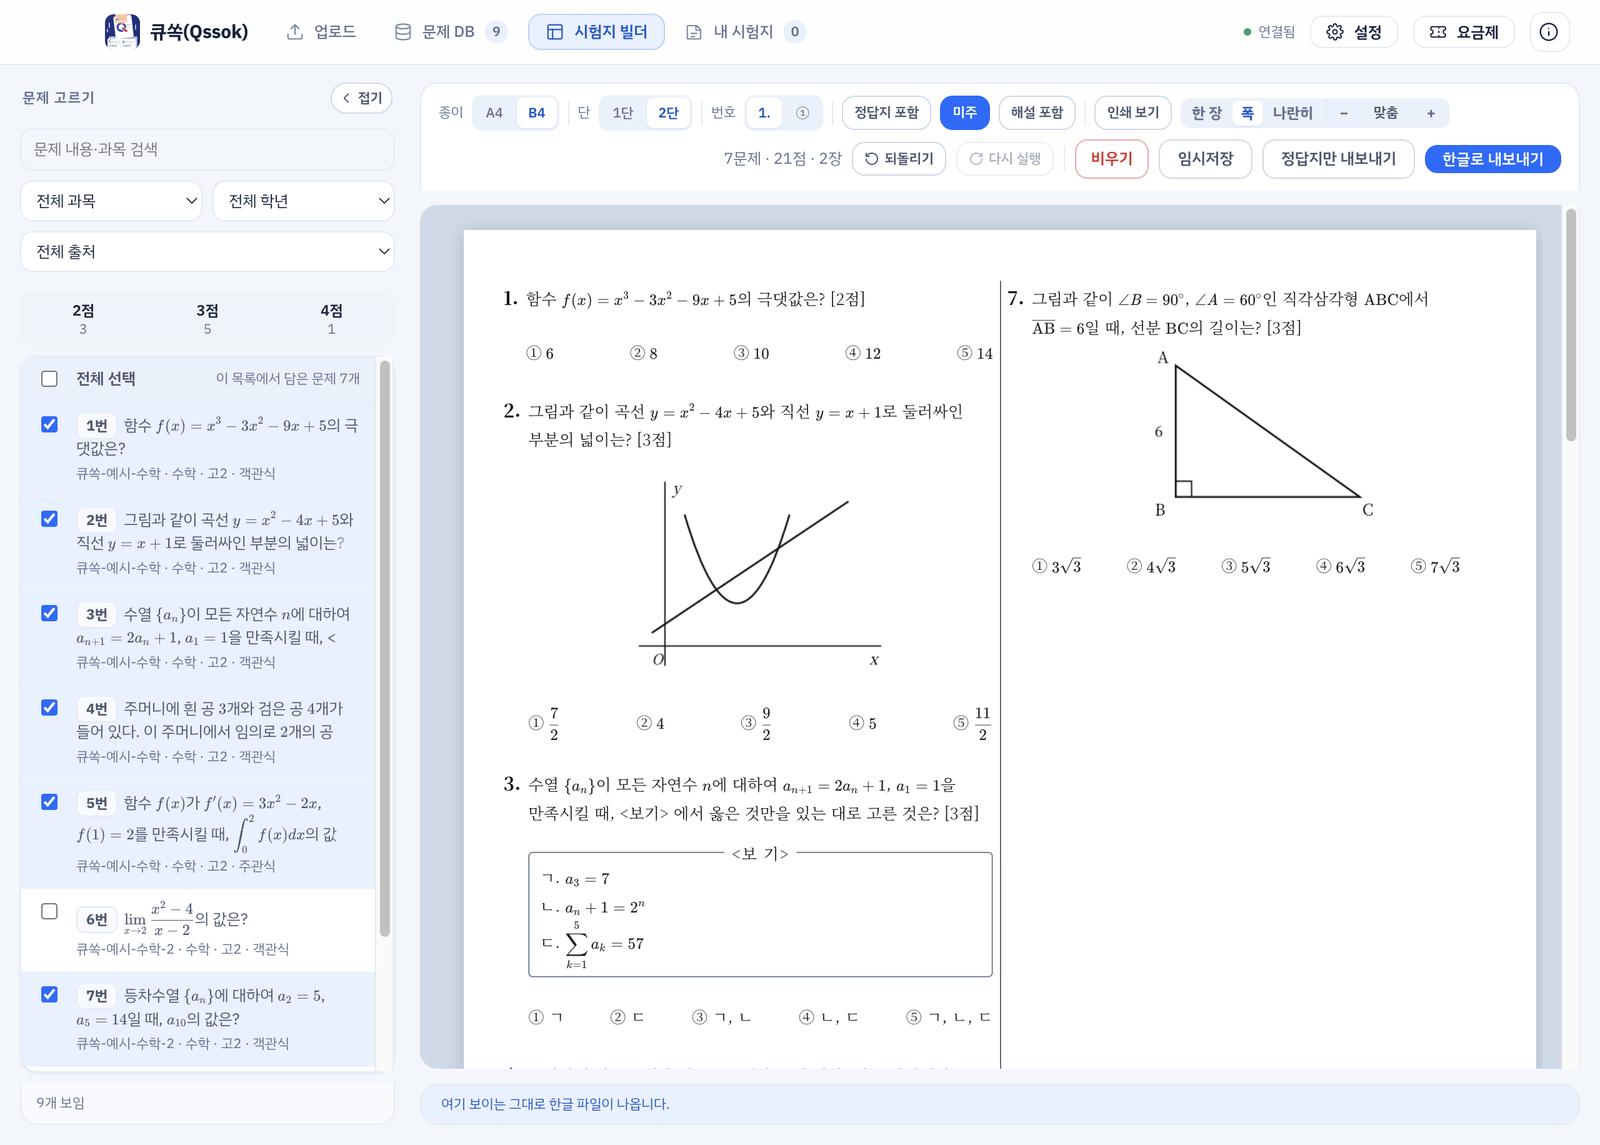
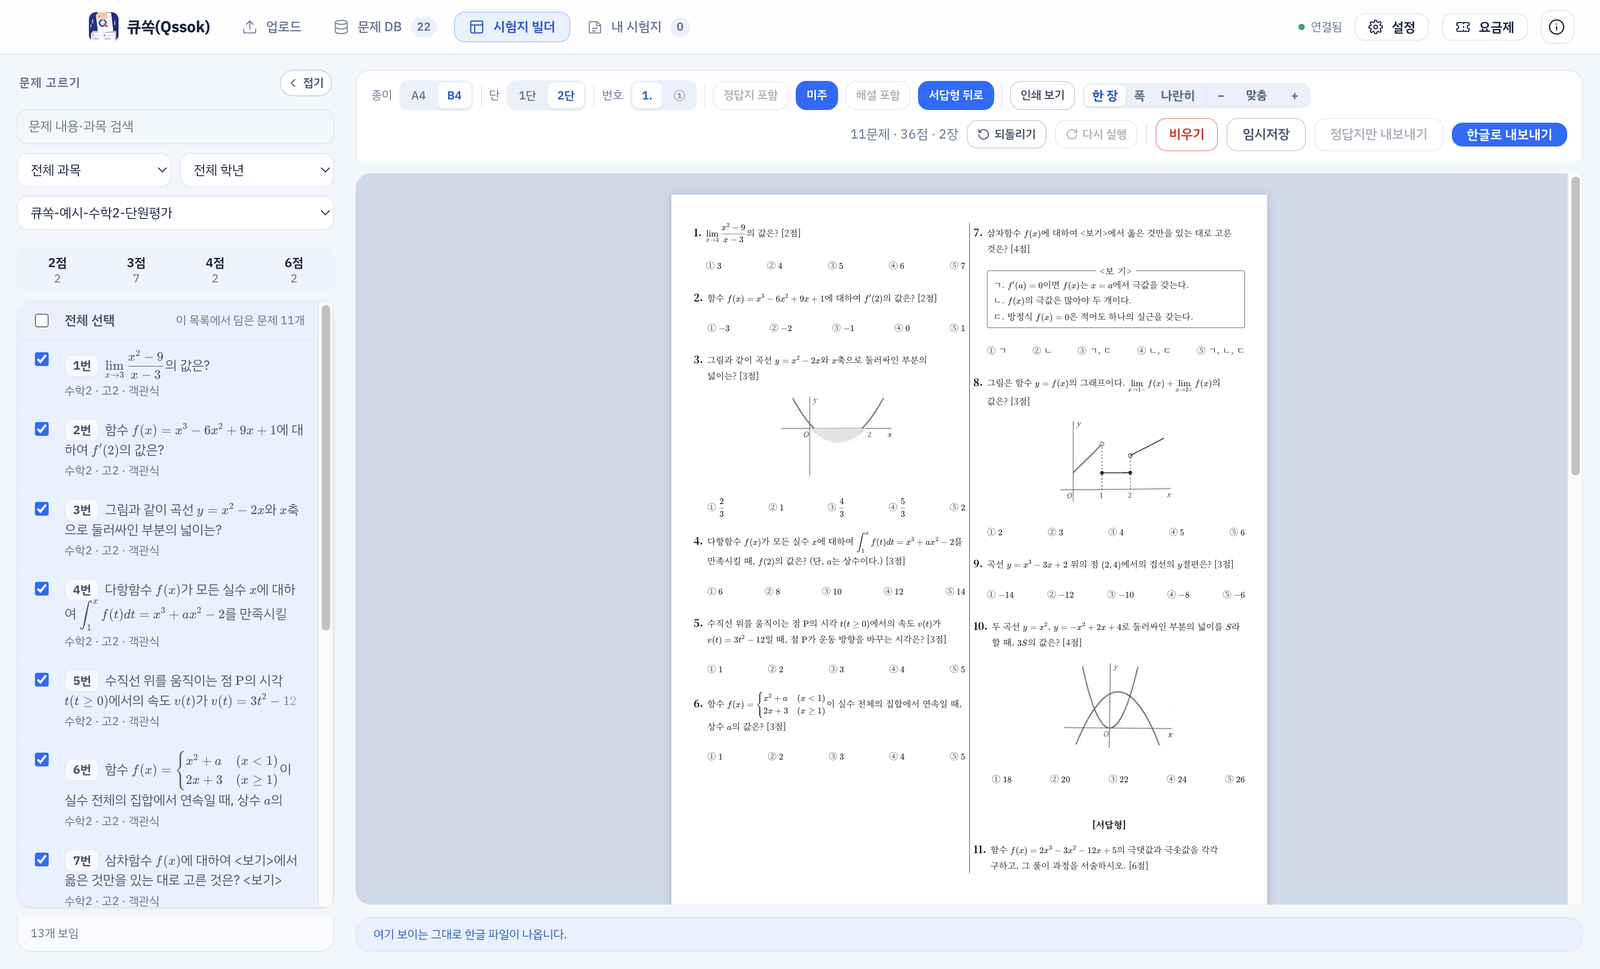
랜딩 — 원본 대조·빌더 사진을 예시 시험지 스캔본으로 (exam-builder 4b5f3e5)

diff --git a/index.html b/index.html
@@ -497,7 +497,7 @@ body,body *:not(code){font-family:"Paperlogy","IBM Plex Sans KR",sans-serif!impo
     <div class="hd reveal"><p class="hd-q">큐쏙(Qssok)에서는</p><h2><span class="mark">골라 담기만</span> 하면 시험지 완성</h2><div class="subj"><span class="chip on">✓ 수학 지원</span><span class="chip soon">다른 과목 · 베타</span></div></div>
     <div class="tabs reveal">
       <div class="tablist" role="tablist" aria-label="큐쏙이 하는 일"><button class="tab" role="tab" aria-controls="stage" aria-selected="true"><span class="n">01</span><b>원본 대조<span class="lg"> 편집</span></b><div class="d">원본 PDF와 나란히 놓고 글자·수식을 바로 고칩니다.<small>스캔 상태에 따라 오타가 날 수 있습니다.</small></div></button><button class="tab" role="tab" aria-controls="stage" aria-selected="false"><span class="n">02</span><b>문제 DB<span class="lg"> 관리</span></b><div class="d">학년·과목 폴더에 쌓고, 시험지 이름으로 찾습니다. 해설 PDF를 올리면 문제마다 해설도 함께 들어갑니다.</div></button><button class="tab" role="tab" aria-controls="stage" aria-selected="false"><span class="n">03</span><b>한글(HWP)<span class="lg"> 시험지 생성</span></b><div class="d">골라 담은 순서와 미리보기 배치 그대로 <span class="nw">한글(HWP) 파일</span>을 생성합니다<small>생성한 파일은 한글 또는 한컴독스로 확인할 수 있습니다<br>글꼴 차이로 줄 높이가 조금 다를 수 있습니다<br>(Word 저장은 준비 중)</small></div></button></div>
-      <div><div class="stage" id="stage" role="tabpanel"><div class="bar"><i></i><i></i><i></i></div><img src="img/feat-edit.png" alt="큐쏙 원본 대조 화면 — 왼쪽은 추출 결과, 오른쪽은 원본" loading="lazy" class="on"><img src="img/feat-db.png" alt="큐쏙 문제 DB 화면 — 학년·과목 폴더와 시험지별 문제 카드" loading="lazy"><img src="img/feat-builder.png" alt="큐쏙 시험지 빌더 — 위쪽 조판 버튼과 2단 시험지 미리보기" loading="lazy"></div><p class="mob-d" id="mobd"></p></div>
+      <div><div class="stage" id="stage" role="tabpanel"><div class="bar"><i></i><i></i><i></i></div><picture><source media="(max-width:760px)" srcset="img/feat-edit-m.png"><img src="img/feat-edit.png" alt="큐쏙 원본 대조 화면 — 왼쪽은 추출 결과, 오른쪽은 원본" loading="lazy" class="on"></picture><img src="img/feat-db.png" alt="큐쏙 문제 DB 화면 — 학년·과목 폴더와 시험지별 문제 카드" loading="lazy"><img src="img/feat-builder.png" alt="큐쏙 시험지 빌더 — 위쪽 조판 버튼과 2단 시험지 미리보기" loading="lazy"></div><p class="mob-d" id="mobd"></p></div>
     </div>
   </div>
 </section>
